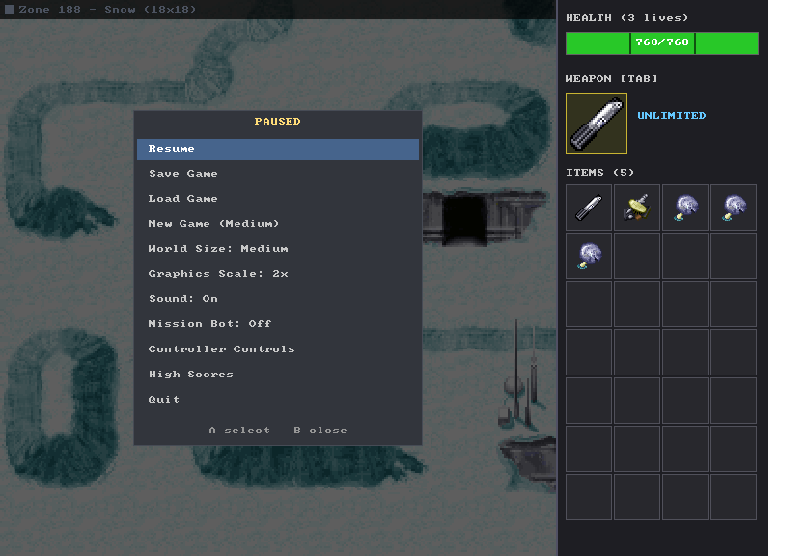
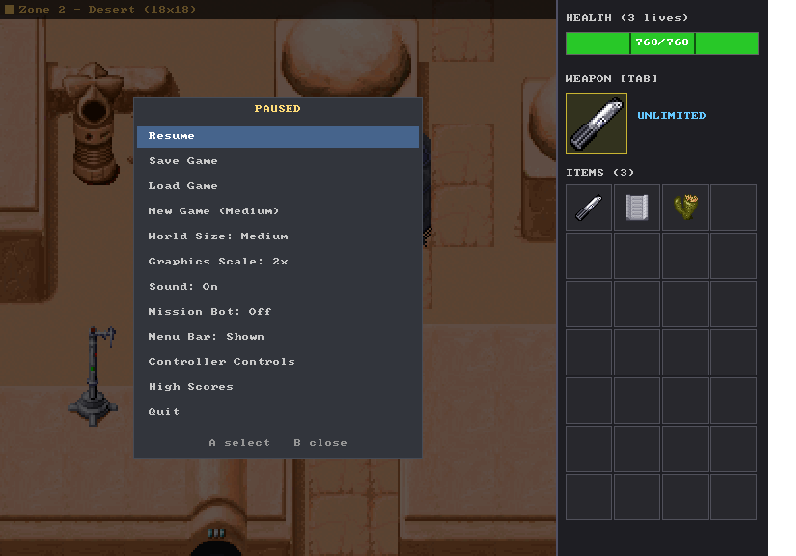
Recapture the Indy shots, fix dialogue wrapping, trim the README
- Wrap dialogue per paragraph and grow the box upward, so multi-paragraph
  speeches (Marcus's briefings) no longer overlap or run off screen
- Indy's whip has unlimited uses instead of 20 ammo
- Capture harness stages Marcus's briefing; new marcus-briefing and
  pause-menu-indy shots, fresh gameplay-indy and pause-menu
- README gains a Features section; notes to self move to
  docs/NOTES-TO-SELF.md

diff --git a/src/YodaStoriesNG.Engine/Dev/CaptureScript.cs b/src/YodaStoriesNG.Engine/Dev/CaptureScript.cs
@@ -72,8 +72,16 @@ public unsafe partial class GameEngine
         t.Add((after + 18.6, () => Dev.Capture.Request("game", $"{game}-pause")));
         t.Add((after + 18.8, () => _controllerOverlay?.Close()));
 
+        // --- Indiana Jones: Marcus handing out the mission in his office.
+        if (game == "indy")
+        {
+            t.Add((after + 19.0, StageMarcusBriefing));
+            t.Add((after + 19.6, () => Dev.Capture.Request("game", "indy-marcus")));
+            t.Add((after + 19.9, () => _messages.Clear()));
+        }
+
         // --- Palette animation: park in the zone that uses the most cycling colours.
-        double pal = after + 19.0;
+        double pal = after + 21.0;
         t.Add((pal, () => { LoadZone(FindMostAnimatedZone()); _messages.Clear(); }));
         for (int i = 0; i < PaletteFrames; i++)
         {
@@ -117,6 +125,42 @@ public unsafe partial class GameEngine
         }));
 
         return t;
+    }
+
+    /// <summary>
+    /// Puts the hero in front of Marcus's desk - the town room whose spawn hotspot no script
+    /// answers, as SectorPuzzles has it - and bumps it for the briefing. The bot has usually
+    /// had it already by now, so the town is marked unsolved again to get the full speech.
+    /// </summary>
+    private void StageMarcusBriefing()
+    {
+        var world = _worldGenerator?.CurrentWorld;
+        if (world == null || _sectorPuzzles == null || _gameData == null) return;
+
+        var pending = new Stack<int>(new[] { world.StartingZoneId });
+        var seen = new HashSet<int>();
+        while (pending.Count > 0)
+        {
+            int id = pending.Pop();
+            if (id < 0 || id >= _gameData.Zones.Count || !seen.Add(id)) continue;
+            var zone = _gameData.Zones[id];
+            foreach (var door in zone.Objects.Where(o => o.Type == ZoneObjectType.DoorEntrance))
+                pending.Push(door.Argument);
+
+            foreach (var desk in zone.Objects.Where(o => (int)o.Type == 1))
+            {
+                bool scripted = zone.Actions.Any(a => a.Conditions.Any(c => c.Opcode == ConditionOpcode.Bump &&
+                    c.Arguments.Count > 1 && c.Arguments[0] == desk.X && c.Arguments[1] == desk.Y));
+                if (scripted) continue;
+
+                LoadZone(id, desk.X, desk.Y + 1);
+                _state.PlayerDirection = Direction.Up;
+                _messages.Clear();
+                if (world.Sectors.TryGetValue(id, out var town)) town.Solved = false;
+                _sectorPuzzles.Bump(desk.X, desk.Y);
+                return;
+            }
+        }
     }
 
     /// <summary>

diff --git a/src/YodaStoriesNG.Engine/Rendering/GameRenderer.cs b/src/YodaStoriesNG.Engine/Rendering/GameRenderer.cs
@@ -1304,29 +1304,41 @@ public unsafe class GameRenderer : IDisposable
         var boxWidth = GameAreaWidth - 20;  // Fit within game area only
         var maxCharsPerLine = (boxWidth - 20) / 8;  // 8 pixels per character
 
-        // Word wrap the text
+        // Word wrap each paragraph on its own. Dialogue carries real line breaks (Indy's
+        // briefings are several paragraphs); splitting on spaces alone drew them as glyphs
+        // and ran the lines into each other.
         var wrappedLines = new List<string>();
-        var words = text.Split(' ');
-        var currentLine = "";
-
-        foreach (var word in words)
+        foreach (var paragraph in text.Replace("\r\n", "\n").Replace('\r', '\n').Split('\n'))
         {
-            if (currentLine.Length + word.Length + 1 <= maxCharsPerLine)
+            if (paragraph.Trim().Length == 0)
             {
-                currentLine += (currentLine.Length > 0 ? " " : "") + word;
+                if (wrappedLines.Count > 0 && wrappedLines[^1].Length > 0)
+                    wrappedLines.Add("");
+                continue;
             }
-            else
-            {
-                if (currentLine.Length > 0)
-                    wrappedLines.Add(currentLine);
-                currentLine = word;
-            }
-        }
-        if (currentLine.Length > 0)
-            wrappedLines.Add(currentLine);
 
-        // Calculate box height based on lines
+            var currentLine = "";
+            foreach (var word in paragraph.Split(' ', StringSplitOptions.RemoveEmptyEntries))
+            {
+                if (currentLine.Length + word.Length + 1 <= maxCharsPerLine)
+                    currentLine += (currentLine.Length > 0 ? " " : "") + word;
+                else
+                {
+                    if (currentLine.Length > 0)
+                        wrappedLines.Add(currentLine);
+                    currentLine = word;
+                }
+            }
+            if (currentLine.Length > 0)
+                wrappedLines.Add(currentLine);
+        }
+        if (wrappedLines.Count > 0 && wrappedLines[^1].Length == 0)
+            wrappedLines.RemoveAt(wrappedLines.Count - 1);
+
+        // Calculate box height based on lines, and grow it upwards so a long speech stays on
+        // screen instead of running off the bottom of the game area.
         var boxHeight = Math.Max(40, 16 + wrappedLines.Count * 12 + 16);
+        y = Math.Min(y, GameAreaHeight - boxHeight - 10);
 
         // Draw background
         SDL.SetRenderDrawColor(_renderer, 20, 20, 50, 230);

diff --git a/src/YodaStoriesNG.Engine/Game/GameEngine.cs b/src/YodaStoriesNG.Engine/Game/GameEngine.cs
@@ -123,6 +123,10 @@ public unsafe partial class GameEngine : IDisposable
         if (tileId == TILE_BASIC_LIGHTSABER || tileId == TILE_UPGRADED_LIGHTSABER)
             return (-1, 200, false);
 
+        // Indy's whip is his lightsaber: melee, never runs dry
+        if (tileId == TILE_WHIP && _gameData?.GameType == GameType.IndianaJones)
+            return (-1, 200, false);
+
         // Check tile flags for weapon type
         if (tileId < _gameData!.Tiles.Count)
         {

diff --git a/README.md b/README.md
@@ -42,9 +42,37 @@ world generator, with Indy's own script opcodes and puzzle types decoded from it
 [WORLD-GENERATION.md](docs/WORLD-GENERATION.md)). The bot plays the first steps of a
 chain but does not finish one yet; that is the top of the [roadmap](docs/ROADMAP.md).
 
+![Marcus briefing Indy in his office](docs/shots/marcus-briefing.png)
+
+*Every Indiana Jones run starts here: Marcus names the artefact, hands over the first item,
+and the generated chain takes it from there.*
+
 ```
 2,123 tiles      658 zones      205 puzzles      8,696 scripts      77 characters
 ```
+
+## Features
+
+What this adds on top of the original, or brings to platforms it never ran on:
+
+- **Both games from one engine** - Yoda Stories and Indiana Jones, detected from the file you
+  point it at, each with its own palette, script opcodes and world generator.
+- **X-tra Large worlds** - a 15x15 map carrying all fifteen missions at once, alongside the
+  original Small, Medium and Large. [PLAYING.md](docs/PLAYING.md#world-sizes)
+- **Xbox controller support** - any SDL gamepad, hot-plugged, with analogue movement and
+  weapon cycling on the bumpers. [PLAYING.md](docs/PLAYING.md#controller)
+- **An in-game pause menu** - save, load, new game, world size, scale, sound and the bot,
+  all reachable from a controller without touching a mouse.
+- **A hideable menu bar** - put it away on Windows, Linux or macOS and play from the pause
+  menu; `F10` brings it back.
+- **Windows, Linux and macOS** - self-contained builds for all three, Intel and Apple
+  Silicon, with a working menu bar on each.
+- **Original sound effects**, played from the game's own WAV files.
+- **A mission bot** - press `B` and it plays the game for you.
+- **Saves that keep the whole world** - plain JSON, restored exactly rather than
+  regenerated, with a built-in editor.
+- **1x / 2x / 4x scaling** and rebindable keys.
+- **Six debug tools** for pulling the data file apart - see [Look inside it](#look-inside-it).
 
 ## How it works
 
@@ -70,24 +98,16 @@ chain but does not finish one yet; that is the top of the [roadmap](docs/ROADMAP
 (Intel and Apple Silicon). You still need your own copy of the game:
 [GAME-DATA.md](docs/GAME-DATA.md).
 
-From source, with the .NET 8 SDK ([BUILDING.md](docs/BUILDING.md)):
+From source, with the .NET 8 SDK - drop `yodesk.dta` into `Yoda/` (and `desktop.daw` into
+`INDYDESK/`) and `dotnet run --project src/YodaStoriesNG.Engine`. Command-line switches and
+publishing are in [BUILDING.md](docs/BUILDING.md).
 
-```bash
-git clone https://github.com/sp00nznet/YodaStoriesNG.git
-cd YodaStoriesNG
+`WASD` to move, `Space` to act, `O` for the objective, `B` to let the bot play it for you.
+**On a controller**, `Start` opens a pause menu that does everything the menu bar does -
+and can hide the menu bar altogether, on Windows, Linux and macOS alike (`F10` brings it
+back). [PLAYING.md](docs/PLAYING.md) has the rest.
 
-# drop yodesk.dta into Yoda/  (and desktop.daw into INDYDESK/, optionally)
-dotnet run --project src/YodaStoriesNG.Engine
-
-# parse and report, without opening a window
-dotnet run --project src/YodaStoriesNG.Engine -- --diag
-
-# the one check that matters: the IACT binary layout
-dotnet run --project src/YodaStoriesNG.Engine -- --self-test
-```
-
-`WASD` to move, `Space` to act, `O` for the objective, `F` to skip to a zone with something
-in it, `B` to let the bot play it for you. [PLAYING.md](docs/PLAYING.md) has the rest.
+![the pause menu over Indiana Jones](docs/shots/pause-menu-indy.png)
 
 ## Look inside it
 
@@ -103,43 +123,15 @@ second monitor. [DEBUG-TOOLS.md](docs/DEBUG-TOOLS.md)
 
 ## Notes to self
 
-Traps this format sets, each paid for once already:
-
-- **An IACT script item always has five argument slots.** There is no count field. Reading
-  slot 0 as a count parses cleanly, shifts every argument by one, and turns dialogue into
-  slices of the next section header - and the game still *mostly* runs. `--self-test`
-  exists so it cannot come back.
-- **The version field does not identify the game.** Retail `DESKTOP.DAW` reports 2.0,
-  exactly like Yoda Stories. Trust the file name.
-- **`TileAtIs` and `IsVariable` put the tile in slot 0** and the position after it, unlike
-  every other tile opcode.
-- **The zone count in the `ZONE` header is right; scanning for `IZON` markers is wrong.**
-  The scan found 27 of Indiana Jones' 366 zones. Read by the counts.
-- **Indiana Jones is not Yoda Stories with other art.** Its script opcodes are numbered
-  differently, its zones keep their scripts in separate sections, and the field its puzzles'
-  documentation calls an item class is the puzzle type.
-- **Read the backbuffer before `RenderPresent`, not after** - which is why every window
-  flushes its own screenshot rather than the game loop doing it centrally.
-- **A single-file publish needs `IncludeAllContentForSelfExtract`, not just
-  `IncludeNativeLibrariesForSelfExtract`.** Without it the binary parses a data file
-  perfectly and then dies on the first SDL call, so "does it start" does not catch it.
-
-## Screenshots
-
-Every image here is generated, never hand-taken:
-
-```powershell
-pwsh tools/capture-shots.ps1
-```
-
-Two minutes. It builds, plays itself through every screen with the bot, and converts the
-frames. [CAPTURING-SCREENSHOTS.md](docs/CAPTURING-SCREENSHOTS.md)
+The traps this format sets - five fixed argument slots with no count, a version field that
+lies, a zone count you must trust over a marker scan - are written up in
+[NOTES-TO-SELF.md](docs/NOTES-TO-SELF.md). Read it before touching the parser.
 
 ## Layout
 
 ```
 docs/                     everything needing more than a paragraph - start at docs/README.md
-  hero.gif  shots/        generated by tools/capture-shots.ps1, never by hand
+  hero.gif  shots/        generated by tools/capture-shots.ps1, never by hand (CAPTURING-SCREENSHOTS.md)
 src/
   YodaStoriesNG.Engine/     THE GAME - plays both .dta and .daw
     Parsing/DtaParser.cs      the whole file format
@@ -162,8 +154,8 @@ repository** - you must own a legal copy of whichever game you load.
 
 Code is [MIT](LICENSE); see [NOTICE](NOTICE) for what that does and does not cover.
 File-format work is cross-checked against
-[WebFun](https://codeberg.org/cyco/WebFun), without which several of the notes above would
-still be open bugs.
+[WebFun](https://codeberg.org/cyco/WebFun), without which several of the
+[notes to self](docs/NOTES-TO-SELF.md) would still be open bugs.
 
 ---
 

diff --git a/docs/NOTES-TO-SELF.md b/docs/NOTES-TO-SELF.md
@@ -1,0 +1,40 @@
+# Notes to self
+
+Traps this format and this codebase set, each paid for once already. Read these before
+touching the parser, the script engine or the release build.
+
+---
+
+## The file format
+
+- **An IACT script item always has five argument slots.** There is no count field. Reading
+  slot 0 as a count parses cleanly, shifts every argument by one, and turns dialogue into
+  slices of the next section header - and the game still *mostly* runs. `--self-test`
+  exists so it cannot come back. See [SCRIPTING.md](SCRIPTING.md).
+- **The version field does not identify the game.** Retail `DESKTOP.DAW` reports 2.0,
+  exactly like Yoda Stories. Trust the file name.
+- **`TileAtIs` and `IsVariable` put the tile in slot 0** and the position after it, unlike
+  every other tile opcode.
+- **The zone count in the `ZONE` header is right; scanning for `IZON` markers is wrong.**
+  The scan found 27 of Indiana Jones' 366 zones. Read by the counts.
+  See [DATA-FORMAT.md](DATA-FORMAT.md).
+
+## Indiana Jones
+
+- **Indiana Jones is not Yoda Stories with other art.** Its script opcodes are numbered
+  differently, its zones keep their scripts in separate sections, and the field its puzzles'
+  documentation calls an item class is the puzzle type. See
+  [WORLD-GENERATION.md](WORLD-GENERATION.md).
+
+## Rendering and the capture harness
+
+- **Read the backbuffer before `RenderPresent`, not after** - which is why every window
+  flushes its own screenshot rather than the game loop doing it centrally. See
+  [CAPTURING-SCREENSHOTS.md](CAPTURING-SCREENSHOTS.md).
+
+## Releases
+
+- **A single-file publish needs `IncludeAllContentForSelfExtract`, not just
+  `IncludeNativeLibrariesForSelfExtract`.** Without it the binary parses a data file
+  perfectly and then dies on the first SDL call, so "does it start" does not catch it.
+  See [BUILDING.md](BUILDING.md).

diff --git a/docs/CAPTURING-SCREENSHOTS.md b/docs/CAPTURING-SCREENSHOTS.md
@@ -63,6 +63,8 @@ The sequence, about 45 seconds:
 | 8.1 s | Enable the mission bot and let it play for 17 seconds. |
 | 25 s | Park the bot and clear its toast messages, so the shot shows the game rather than the harness. |
 | 26 s | The gameplay shot. |
+| 26.3 s | Open the pause menu over the live game, capture it, close it. |
+| 27 s | Indiana Jones only: stage Marcus's briefing at his desk in the office zone and capture it. |
 | 27 s | Jump to the most colour-cycled zone in the game, then 24 frames at 75 ms. Becomes `palette-animation.gif`. |
 | 30 s | Move to the zone with the most readable scripted dialogue. |
 | 30 - 38 s | Open, capture and close each tool window: map, script editor, asset viewer, save editor. |
@@ -110,6 +112,9 @@ should stay sharp.
 | `docs/shots/save-editor.png` | Save Game Editor |
 | `docs/shots/score-screen.png` | Force Factor screen |
 | `docs/shots/r2d2-help.png` | R2-D2 hint dialogue |
+| `docs/shots/pause-menu.png` | Pause menu over Yoda Stories |
+| `docs/shots/pause-menu-indy.png` | Pause menu over Indiana Jones |
+| `docs/shots/marcus-briefing.png` | Marcus handing out the Indiana Jones mission |
 
 **Gameplay shots differ every run**, because every run generates a different world. That is
 deliberate: they should look like the game, not like one blessed save file. If a shot lands
@@ -131,7 +136,7 @@ Without `-KeepFrames` the frames are deleted; with it they stay in
 `%TEMP%/ysng-capture/`.
 
 Missing `desktop.daw` is a warning, not an error - you get every shot except
-`gameplay-indy.png`.
+the three Indiana Jones ones.
 
 ---
 

diff --git a/docs/README.md b/docs/README.md
@@ -20,6 +20,7 @@ The README is the pitch. Everything that needs more than a paragraph lives here.
 | [WORLD-GENERATION.md](WORLD-GENERATION.md) | How a new world is grown from a sector grid into a solvable puzzle chain. |
 | [DEBUG-TOOLS.md](DEBUG-TOOLS.md) | The five debug windows, the mission bot, and the console inspector. |
 | [CAPTURING-SCREENSHOTS.md](CAPTURING-SCREENSHOTS.md) | The in-engine capture harness that produces every image in these docs. |
+| [NOTES-TO-SELF.md](NOTES-TO-SELF.md) | The traps the format and the build set, each already paid for once. Read before touching the parser. |
 | [ROADMAP.md](ROADMAP.md) | What is missing, what is next, and what is deliberately not being done. |
 
 ## Conventions used in these docs
